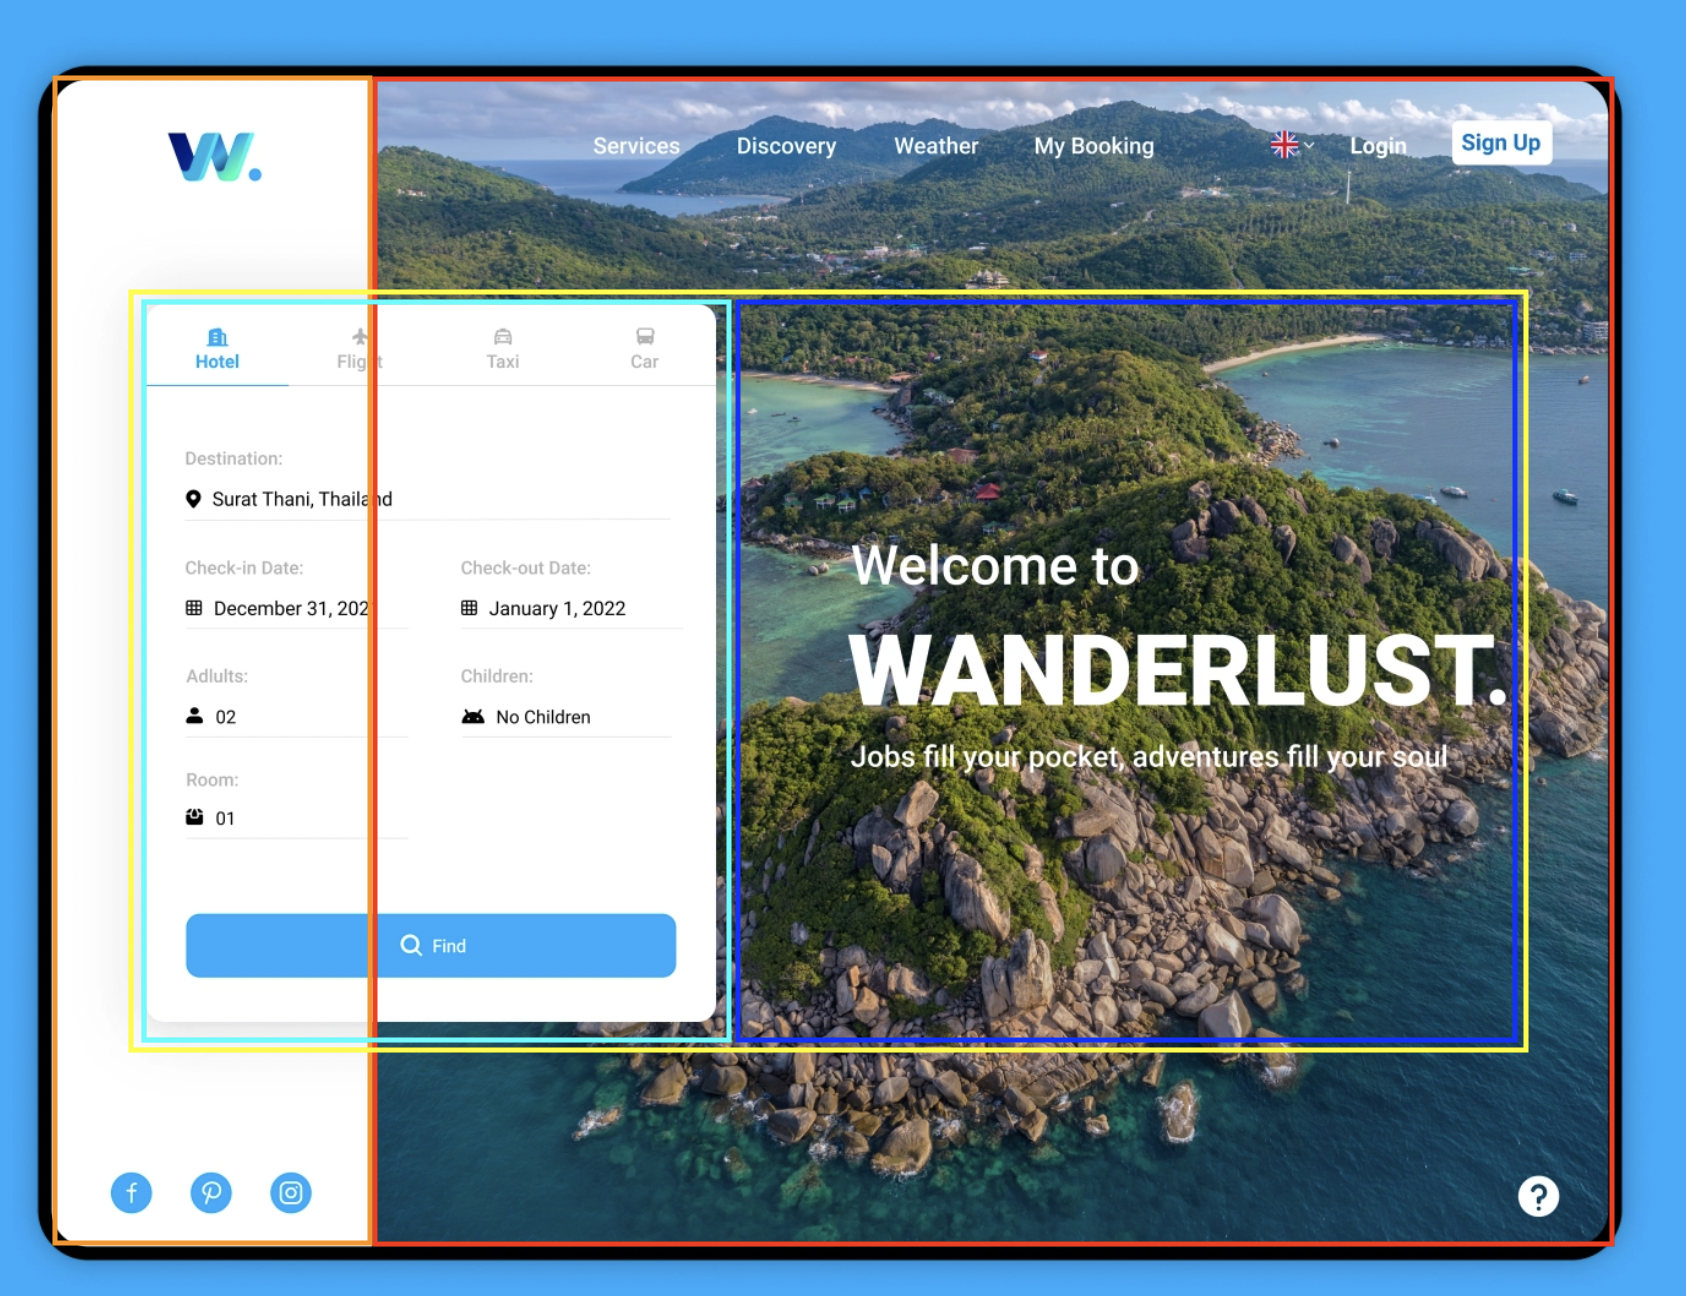
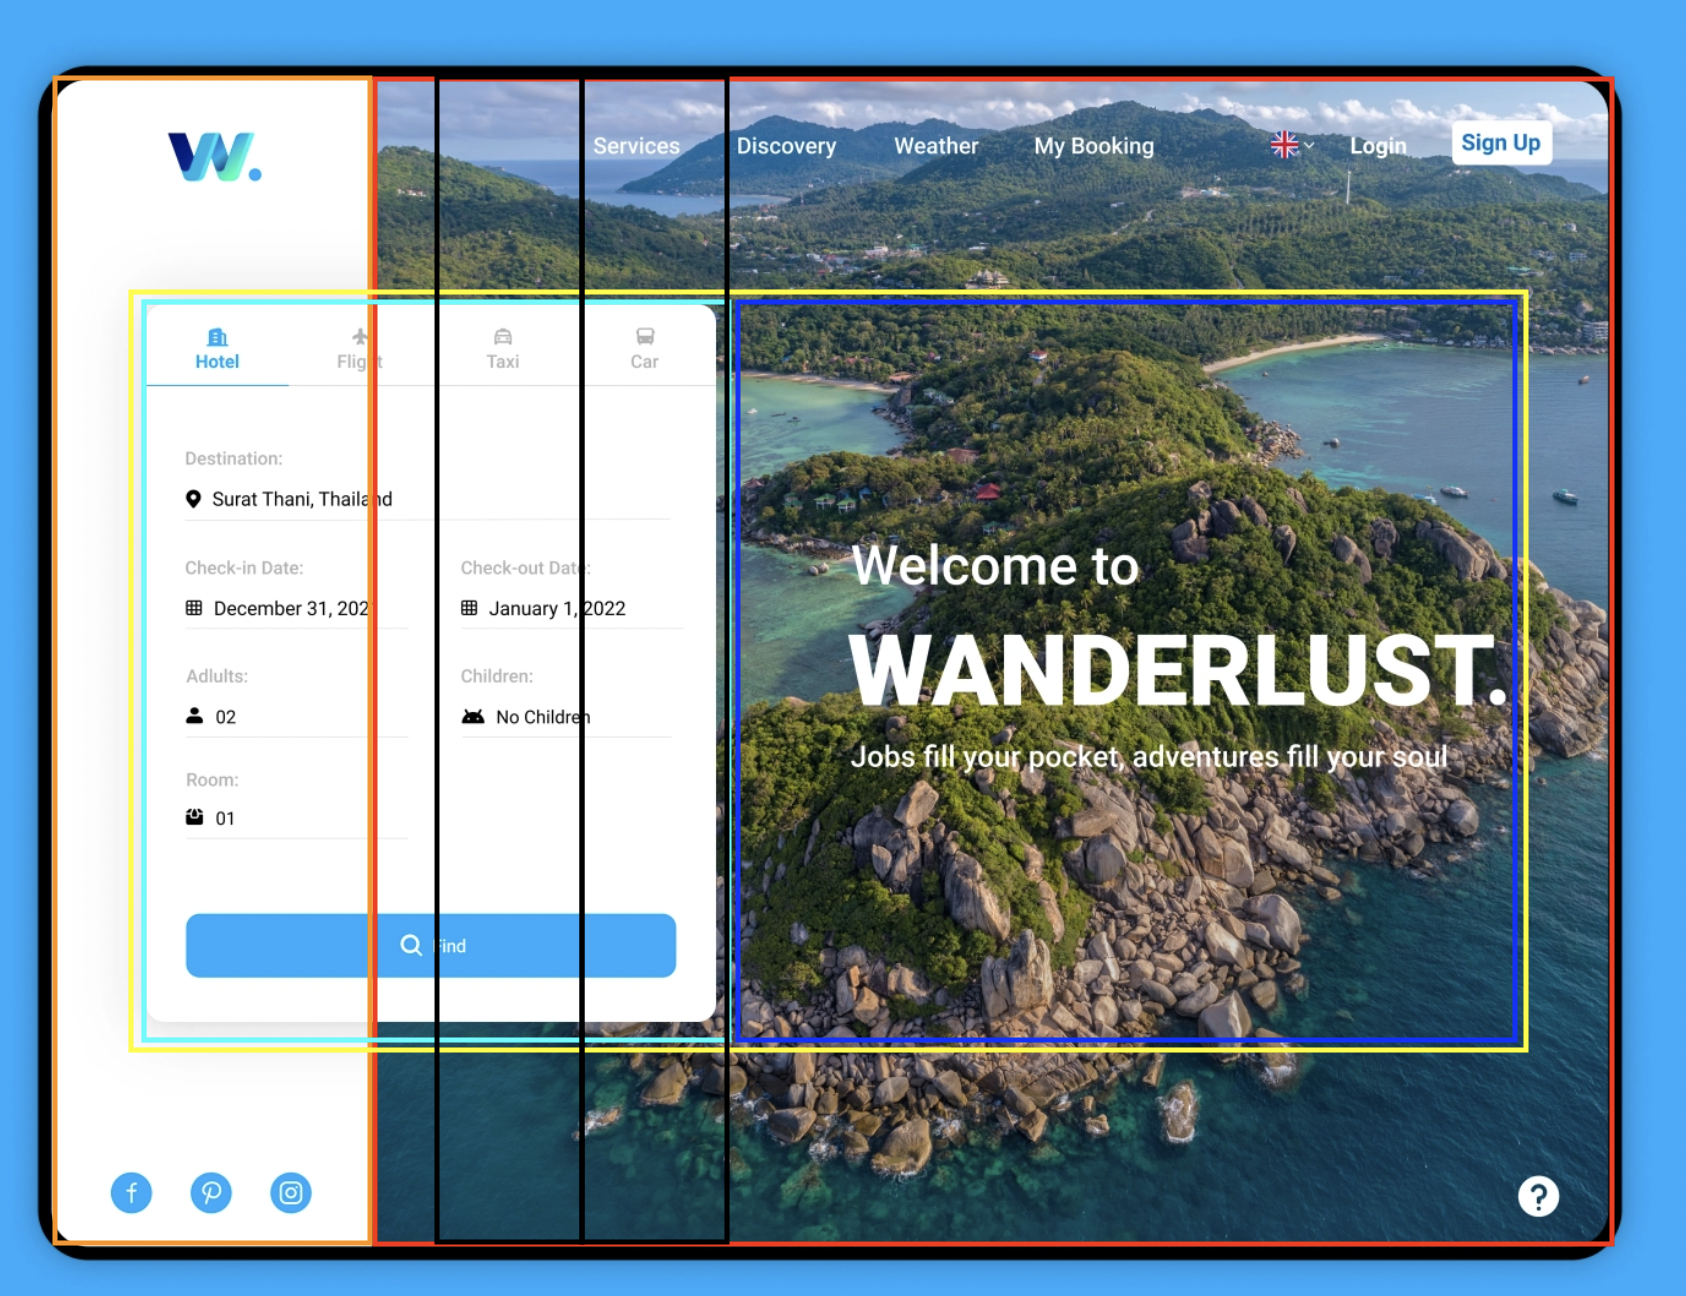
fix: :bug: misaligned content

Changed region(s): [[0.2776, 0.0617, 0.4318, 0.9877], [0.2467, 0.0617, 0.2776, 0.9568]]

diff --git a/Exercises/CSS Exercise/CSS/index copy.html b/Exercises/CSS Exercise/CSS/index copy.html
@@ -16,20 +16,32 @@
         <div class="site-container__black-border">
             <div class="site-container__sidebar">
             </div>
+            <!-- <div class="site-container__logo">
+                W
+                <img src="./assets/logo-1600×1200-png.png" alt="logo" srcset=""> 
+            </div> -->
             <div class="site-container__content">
-                    <ul class="site-container__nav">
-                        <li>Services</li>
-                        <li>Discovery</li>
-                        <li>Weather</li>
-                        <li>My Booking</li>
-                        <li id="site-dropdown"> <img src="./assets/flag-1772x1181-png.png" alt="" id="site-dropdown__flag">
-                            v</li>
-                        <li>Login</li>
-                        <li id="site-button__sign-up">Sign Up</li>
-                    </ul>
-                    <div class="site-container__footer">
-                        ?
-                    </div>
+            </div>
+            <ul class="site-container__nav">
+                <li>Services</li>
+                <li>Discovery</li>
+                <li>Weather</li>
+                <li>My Booking</li>
+                <li id="site-dropdown"> <img src="./assets/flag-1772x1181-png.png" alt="flag" id="site-dropdown__flag">
+                    v</li>
+                <li>Login</li>
+                <li class="site-button__hover">Sign Up</li>
+            </ul>
+            <div class="footer">
+                <div class="socials">
+                    <!-- svgs -->
+                    <div>f</div>
+                    <div>p</div>
+                    <div>i</div>
+                </div>
+                <div class="help">
+
+                </div>
             </div>
             <div class="site-container__main">
                 <div class="site-container__main-card">
@@ -87,16 +99,84 @@
                         <div class="site-main-card__form-input site-main-card__form-button w-100">
                             <button><svg stroke="currentColor" fill="currentColor" stroke-width="0" viewBox="0 0 24 24" aria-hidden="true" height="1em" width="1em" xmlns="http://www.w3.org/2000/svg"><path fill-rule="evenodd" d="M10.5 3.75a6.75 6.75 0 100 13.5 6.75 6.75 0 000-13.5zM2.25 10.5a8.25 8.25 0 1114.59 5.28l4.69 4.69a.75.75 0 11-1.06 1.06l-4.69-4.69A8.25 8.25 0 012.25 10.5z" clip-rule="evenodd"></path></svg>Find</button>
                         </div>
-                    
+                       
                     </div>
                 </div>
                 <div class="site-container__main-text">                       
-                    <p>Welcome to</p>
-                    <p><b>WANDERLUST.</b></p>
+                    <h3>Welcome to</h3>
+                    <h1><b>WANDERLUST.</b></h1>
                     <p>Jobs fill your pockets, adventures fill your soul</p>
                 </div>
             </div>
+       <!--  
+        
+        <div class="site-container__main">
+            <div class="site-container__main-card">
+                <div class="site-main-card__nav">
+                    <div class="site-main-card__nav-item">
+                        <svg stroke="currentColor" fill="currentColor" stroke-width="0" viewBox="0 0 24 24" height="1em" width="1em" xmlns="http://www.w3.org/2000/svg"><g><path fill="none" d="M0 0h24v24H0z"></path><path d="M17 19h2v-8h-6v8h2v-6h2v6zM3 19V4a1 1 0 0 1 1-1h14a1 1 0 0 1 1 1v5h2v10h1v2H2v-2h1zm4-8v2h2v-2H7zm0 4v2h2v-2H7zm0-8v2h2V7H7z"></path></g></svg>
+                        Hotel
+                    </div>
+                    <div class="site-main-card__nav-item">
+                        <svg stroke="currentColor" fill="currentColor" stroke-width="0" viewBox="0 0 24 24" height="1em" width="1em" xmlns="http://www.w3.org/2000/svg"><path fill="none" d="M0 0h24v24H0z"></path><path d="M21 16v-2l-8-5V3.5c0-.83-.67-1.5-1.5-1.5S10 2.67 10 3.5V9l-8 5v2l8-2.5V19l-2 1.5V22l3.5-1 3.5 1v-1.5L13 19v-5.5l8 2.5z"></path></svg>
+                        Flight
+                    </div>
+                    <div class="site-main-card__nav-item">
+                        <svg stroke="currentColor" fill="currentColor" stroke-width="0" viewBox="0 0 24 24" height="1em" width="1em" xmlns="http://www.w3.org/2000/svg"><g><path fill="none" d="M0 0h24v24H0z"></path><path d="M22 12v9a1 1 0 0 1-1 1h-1a1 1 0 0 1-1-1v-1H5v1a1 1 0 0 1-1 1H3a1 1 0 0 1-1-1v-9l2.48-5.788A2 2 0 0 1 6.32 5H9V3h6v2h2.681a2 2 0 0 1 1.838 1.212L22 12zM4.176 12h15.648l-2.143-5H6.32l-2.143 5zM6.5 17a1.5 1.5 0 1 0 0-3 1.5 1.5 0 0 0 0 3zm11 0a1.5 1.5 0 1 0 0-3 1.5 1.5 0 0 0 0 3z"></path></g></svg>
+                        Taxi
+                    </div>
+                    <div class="site-main-card__nav-item">
+                        <svg stroke="currentColor" fill="currentColor" stroke-width="0" viewBox="0 0 512 512" height="1em" width="1em" xmlns="http://www.w3.org/2000/svg"><path d="M488 128h-8V80c0-44.8-99.2-80-224-80S32 35.2 32 80v48h-8c-13.25 0-24 10.74-24 24v80c0 13.25 10.75 24 24 24h8v160c0 17.67 14.33 32 32 32v32c0 17.67 14.33 32 32 32h32c17.67 0 32-14.33 32-32v-32h192v32c0 17.67 14.33 32 32 32h32c17.67 0 32-14.33 32-32v-32h6.4c16 0 25.6-12.8 25.6-25.6V256h8c13.25 0 24-10.75 24-24v-80c0-13.26-10.75-24-24-24zM112 400c-17.67 0-32-14.33-32-32s14.33-32 32-32 32 14.33 32 32-14.33 32-32 32zm16-112c-17.67 0-32-14.33-32-32V128c0-17.67 14.33-32 32-32h256c17.67 0 32 14.33 32 32v128c0 17.67-14.33 32-32 32H128zm272 112c-17.67 0-32-14.33-32-32s14.33-32 32-32 32 14.33 32 32-14.33 32-32 32z"></path></svg>
+                        Car
+                    </div>
+                </div>
+                <div class="site-main-card__form">
+                    <div class="site-main-card__form-input w-100">
+                        <span>Destination</span>
+                        <div>
+                            <svg stroke="currentColor" fill="currentColor" stroke-width="0" viewBox="0 0 512 512" height="1em" width="1em" xmlns="http://www.w3.org/2000/svg"><path d="M256 32C167.67 32 96 96.51 96 176c0 128 160 304 160 304s160-176 160-304c0-79.49-71.67-144-160-144zm0 224a64 64 0 1164-64 64.07 64.07 0 01-64 64z"></path></svg>
+                            Surat Thani, Thailand
+                        </div>
+                    </div>
+                    <div class="site-main-card__form-input">
+                        <span>Check-in Date</span>
+                        <div><svg stroke="currentColor" fill="currentColor" stroke-width="0" viewBox="0 0 24 24" height="1em" width="1em" xmlns="http://www.w3.org/2000/svg"><path fill="none" d="M0 0h24v24H0V0z"></path><path d="M20 4H4c-1.1 0-2 .9-2 2v12c0 1.1.9 2 2 2h16c1.1 0 2-.9 2-2V6c0-1.1-.9-2-2-2zM8 11H4V6h4v5zm6 0h-4V6h4v5zm6 0h-4V6h4v5zM8 18H4v-5h4v5zm6 0h-4v-5h4v5zm6 0h-4v-5h4v5z"></path></svg>
+                            December 31, 2021</div>
+                    </div>
+                    <div class="site-main-card__form-input">
+                        <span>Check-out Date</span>
+                        <div><svg stroke="currentColor" fill="currentColor" stroke-width="0" viewBox="0 0 24 24" height="1em" width="1em" xmlns="http://www.w3.org/2000/svg"><path fill="none" d="M0 0h24v24H0V0z"></path><path d="M20 4H4c-1.1 0-2 .9-2 2v12c0 1.1.9 2 2 2h16c1.1 0 2-.9 2-2V6c0-1.1-.9-2-2-2zM8 11H4V6h4v5zm6 0h-4V6h4v5zm6 0h-4V6h4v5zM8 18H4v-5h4v5zm6 0h-4v-5h4v5zm6 0h-4v-5h4v5z"></path></svg>
+                            January 1, 2022</div>
+                    </div>
+                    <div class="site-main-card__form-input ">
+                        <span>Adults</span>
+                        <div><svg stroke="currentColor" fill="currentColor" stroke-width="0" viewBox="0 0 512 512" height="1em" width="1em" xmlns="http://www.w3.org/2000/svg"><path d="M256 256a112 112 0 10-112-112 112 112 0 00112 112zm0 32c-69.42 0-208 42.88-208 128v64h416v-64c0-85.12-138.58-128-208-128z"></path></svg>
+                            02</div>
+                    </div>
+                    <div class="site-main-card__form-input">
+                        <span>Children</span>
+                        <div><svg stroke="currentColor" fill="currentColor" stroke-width="0" viewBox="0 0 576 512" height="1em" width="1em" xmlns="http://www.w3.org/2000/svg"><path d="M420.55,301.93a24,24,0,1,1,24-24,24,24,0,0,1-24,24m-265.1,0a24,24,0,1,1,24-24,24,24,0,0,1-24,24m273.7-144.48,47.94-83a10,10,0,1,0-17.27-10h0l-48.54,84.07a301.25,301.25,0,0,0-246.56,0L116.18,64.45a10,10,0,1,0-17.27,10h0l47.94,83C64.53,202.22,8.24,285.55,0,384H576c-8.24-98.45-64.54-181.78-146.85-226.55"></path></svg>
+                            No Children</div>
+                    </div>
+                    <div class="site-main-card__form-input">
+                        <span>Room</span>
+                        <div><svg stroke="currentColor" fill="currentColor" stroke-width="0" viewBox="0 0 640 512" height="1em" width="1em" xmlns="http://www.w3.org/2000/svg"><path d="M160 224v64h320v-64c0-35.3 28.7-64 64-64h32c0-53-43-96-96-96H160c-53 0-96 43-96 96h32c35.3 0 64 28.7 64 64zm416-32h-32c-17.7 0-32 14.3-32 32v96H128v-96c0-17.7-14.3-32-32-32H64c-35.3 0-64 28.7-64 64 0 23.6 13 44 32 55.1V432c0 8.8 7.2 16 16 16h64c8.8 0 16-7.2 16-16v-16h384v16c0 8.8 7.2 16 16 16h64c8.8 0 16-7.2 16-16V311.1c19-11.1 32-31.5 32-55.1 0-35.3-28.7-64-64-64z"></path></svg>
+                            01</div>
+                    </div>
+                    <div class="site-main-card__form-input site-main-card__form-button w-100">
+                        <button><svg stroke="currentColor" fill="currentColor" stroke-width="0" viewBox="0 0 24 24" aria-hidden="true" height="1em" width="1em" xmlns="http://www.w3.org/2000/svg"><path fill-rule="evenodd" d="M10.5 3.75a6.75 6.75 0 100 13.5 6.75 6.75 0 000-13.5zM2.25 10.5a8.25 8.25 0 1114.59 5.28l4.69 4.69a.75.75 0 11-1.06 1.06l-4.69-4.69A8.25 8.25 0 012.25 10.5z" clip-rule="evenodd"></path></svg>Find</button>
+                    </div>
+                   
+                </div>
+            </div>
+            <div class="site-container__main-text">                       
+                <h3>Welcome to</h3>
+                <h1><b>WANDERLUST.</b></h1>
+                <p>Jobs fill your pockets, adventures fill your soul</p>
+            </div>
+        </div> -->
         </div>
     </div>
 </body>
 </html>
+

diff --git a/Exercises/CSS Exercise/CSS/style copy.css b/Exercises/CSS Exercise/CSS/style copy.css
@@ -27,19 +27,15 @@ body {
     border-radius: 35px;
 
     display: grid;
-    grid-template: repeat(12, 1fr)/repeat(12, 1fr);
+    grid-template: repeat(12, 1fr)/repeat(11, 1fr);
 }
-
 
 .site-container__sidebar {
-    grid-column: 1 / span 3;
-    grid-row: 1 / span 12;
-    border-radius: 20px 0px 0px 20px;
-    background-color: rgb(242 242 242) ;
+    grid-area: 1 / 1 / span 12 / span 2;
 }
-/* [Holy Grail Layout]: https://1linelayouts.glitch.me/ */
+
 .site-container__content {
-    grid-area: 1 / 4 / span 12 / span 9;
+    grid-area: 1 / 3 / span 12 / span 9;
 
     
     border-radius: 0px 20px 20px 0px;
@@ -47,58 +43,51 @@ body {
     background-size: cover;
     background-repeat: no-repeat;
     background-position: left;
-
-    display: grid;
-    grid-template-rows: auto 1fr auto;
 }
 
-/* [Line Up]:  https://1linelayouts.glitch.me/*/
 .site-container__nav {
-    padding: 2rem;
-    grid-column: 4 / span 9;
-    
+    grid-area: 1 / 4 / 1/ span 8;
+
     display: flex;
-    padding: 1rem;
-    justify-content: space-around;
-
     list-style-type: none;
-    font-weight: 600;
+    justify-content: space-evenly;
+    align-items: flex-end;
+
+    margin: 0.5em 0em 0em 2em;
 }
 
-.site-container__nav li
-{
-    padding: 0.3rem;
+.site-container__nav li {
+    padding: 0.5em;
 }
-
 #site-dropdown {
     display: flex;
-    gap: 0.1rem;
 }
-
 #site-dropdown__flag {
     width: 30px;
+    background-image: url("./assets/flag-1772x1181-png.png");
 }
 
-#site-button__sign-up {
+.site-button__hover {
     color: rgb(30 120 181);
     background-color: rgb(255 255 255);
     border-radius: 10%;
 }
-/* NAV END */
 
-/* MAIN */
+.footer {
+    grid-column: 1 / span 11;
+    grid-row: 12;
+}
+
 .site-container__main {
-    grid-column: 2 / span 10;
-    grid-row: 3/ span 8;
+    grid-area: 3 / 1/ span 8/ span 11;
 
     display: grid;
     grid-template: repeat(12,1fr) /repeat(12,1fr);/*card and text*/
 }
 
 .site-container__main-text {
-    grid-column: 7/ span 3;
-    grid-row: 3/span 5;
-    padding: 5rem;
+    grid-area: 3 / 6/ span 5/ span 6;
+
     font-size: xx-large;
     font-weight: 200;
     line-height: 25px;
@@ -116,6 +105,7 @@ body {
    
     display: grid;
     grid-template: 1fr 6fr/ 1fr; 
+    margin-left: 3em;
 }
 .site-main-card__nav{
     grid-column: 1/span 4;
@@ -184,4 +174,3 @@ div .site-main-card__nav-item:first-of-type{
     border: none;
     border-radius: 0.75em;
 } 
-/* FOOTER */
